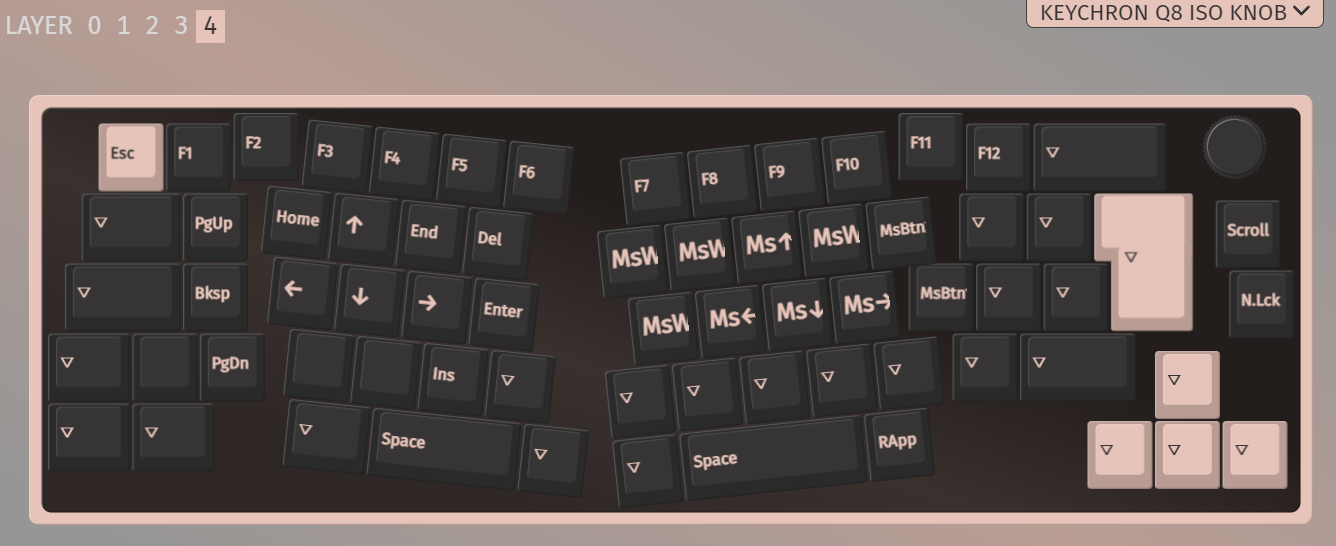
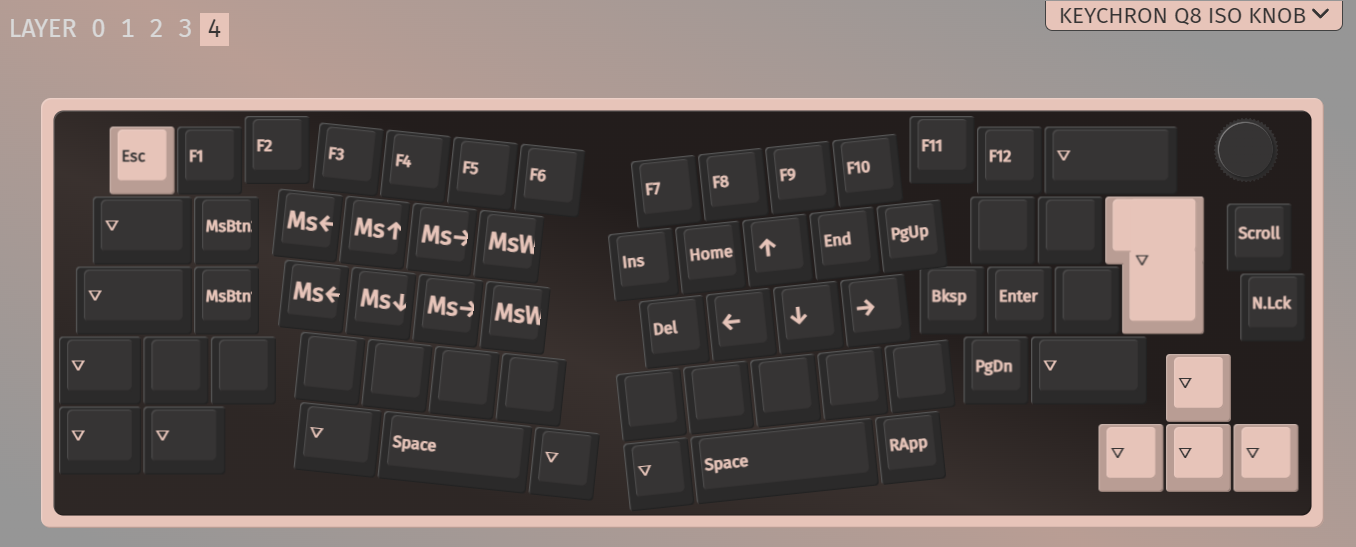
Swapped mouse and arrow controls on navigation layer for Q8, added F keys to symbol layer

diff --git a/keyboards/keychron/q8/iso_encoder/keymaps/hthomas92/keymap.c b/keyboards/keychron/q8/iso_encoder/keymaps/hthomas92/keymap.c
@@ -56,8 +56,8 @@ const uint16_t PROGMEM keymaps[][MATRIX_ROWS][MATRIX_COLS] = {
         KC_LSFT, KC_NUBS,  KC_Z,     KC_X,    KC_C,    KC_V,    KC_B,     KC_DEL,   KC_N,    KC_M,    KC_COMM,  KC_DOT,   KC_SLSH,  KC_RSFT, KC_UP,
         KC_LCTL, KC_LWIN,  KC_LALT,           KC_SPC,           MO(_NAV), TG(_NUM),          NAV_SPC,           KC_RALT,           KC_LEFT, KC_DOWN, KC_RGHT),
 
-    [_SYM] = LAYOUT_iso_70(
-        XXXXXXX, XXXXXXX,  XXXXXXX,  XXXXXXX, XXXXXXX, XXXXXXX, XXXXXXX,  XXXXXXX,  XXXXXXX, XXXXXXX, XXXXXXX,  XXXXXXX,  XXXXXXX,  XXXXXXX,          XXXXXXX,
+    [_SYM] = LAYOUT_iso_70
+        XXXXXXX, KC_F1,    KC_F2,    KC_F3,   KC_F4,   KC_F5,   KC_F6,    KC_F7,    KC_F8,   KC_F9,   KC_F10,   KC_F11,   KC_F12,   XXXXXXX,          XXXXXXX,
         KC_GRV,  KC_1,     KC_2,     KC_3,    KC_4,    KC_5,    KC_6,     KC_7,     KC_8,    KC_9,    KC_0,     KC_MINS,  KC_EQL,                     XXXXXXX,
         _______, KC_F1,    KC_F2,    KC_F3,   KC_F4,   KC_F5,   KC_F6,    KC_F7,    KC_F8,   KC_F9,   KC_F10,   KC_F11,   KC_F12,   XXXXXXX,          XXXXXXX,
         _______, S(KC_GRV),S(KC_1),  S(KC_2), S(KC_3), S(KC_4), S(KC_5),  _______,  S(KC_6),  S(KC_7), S(KC_8), S(KC_9),  S(KC_0),  _______,  KC_PGUP,
@@ -70,11 +70,20 @@ const uint16_t PROGMEM keymaps[][MATRIX_ROWS][MATRIX_COLS] = {
         _______, XXXXXXX,  XXXXXXX,  KC_CALC, XXXXXXX, XXXXXXX, _______,  KC_INS,   KC_P0,   KC_P1,   KC_P2,    KC_P3,    _______,  _______, _______,
         _______, _______,  _______,           _______,          _______,  _______,           KC_P0,             KC_PENT,            _______, _______, _______),
 
+    // Left handed arrow cluster
+    //[_NAV] = LAYOUT_iso_70(
+    //    KC_ESC,  KC_F1,    KC_F2,    KC_F3,   KC_F4,   KC_F5,   KC_F6,    KC_F7,    KC_F8,   KC_F9,   KC_F10,   KC_F11,   KC_F12,   _______,          RM_TOGG,
+    //    _______, KC_PGUP,  KC_HOME,  KC_UP,   KC_END,   KC_DEL, KC_WH_U,  KC_WH_L,  KC_MS_U, KC_WH_R, KC_BTN2,  _______,  _______,                    KC_SCRL,
+    //    _______, KC_BSPC,  KC_LEFT,  KC_DOWN, KC_RGHT,  KC_ENT, KC_WH_D,  KC_MS_L,  KC_MS_D, KC_MS_R, KC_BTN1,  _______,  _______,  _______,           KC_NUM,
+    //    _______, XXXXXXX,  KC_PGDN,  XXXXXXX, XXXXXXX,  KC_INS, _______,  _______,  _______, _______, _______,  _______,  _______,  _______, _______,
+    //    _______, _______,  _______,            KC_SPC,          _______,  _______,            KC_SPC,            KC_APP,            _______, _______, _______)
+
+    // Right handed arrow cluster
     [_NAV] = LAYOUT_iso_70(
         KC_ESC,  KC_F1,    KC_F2,    KC_F3,   KC_F4,   KC_F5,   KC_F6,    KC_F7,    KC_F8,   KC_F9,   KC_F10,   KC_F11,   KC_F12,   _______,          RM_TOGG,
-        _______, KC_PGUP,  KC_HOME,  KC_UP,   KC_END,   KC_DEL, KC_WH_U,  KC_WH_L,  KC_MS_U, KC_WH_R, KC_BTN2,  _______,  _______,                    KC_SCRL,
-        _______, KC_BSPC,  KC_LEFT,  KC_DOWN, KC_RGHT,  KC_ENT, KC_WH_D,  KC_MS_L,  KC_MS_D, KC_MS_R, KC_BTN1,  _______,  _______,  _______,           KC_NUM,
-        _______, XXXXXXX,  KC_PGDN,  XXXXXXX, XXXXXXX,  KC_INS, _______,  _______,  _______, _______, _______,  _______,  _______,  _______, _______,
+        _______, KC_BTN2,  KC_WH_L,  KC_MS_U, KC_WH_R, KC_WH_U, KC_INS,  KC_HOME,  KC_UP,   KC_PGUP, _______,  _______,  _______,                    KC_SCRL,
+        _______, KC_BTN1,  KC_MS_L,  KC_MS_D, KC_MS_R, KC_WH_D, KC_DEL,  KC_LEFT,  KC_DOWN, KC_RGHT, KC_BSPC,   KC_ENT,  _______,  _______,           KC_NUM,
+        _______, _______,  _______,  _______, _______,  KC_INS, _______,  _______,  _______, _______, _______,  _______,  KC_PGDN,  _______, _______,
         _______, _______,  _______,            KC_SPC,          _______,  _______,            KC_SPC,            KC_APP,            _______, _______, _______)
 };
 
